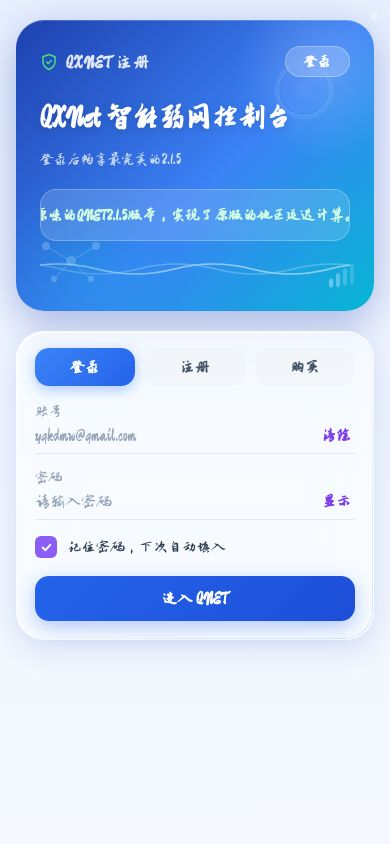
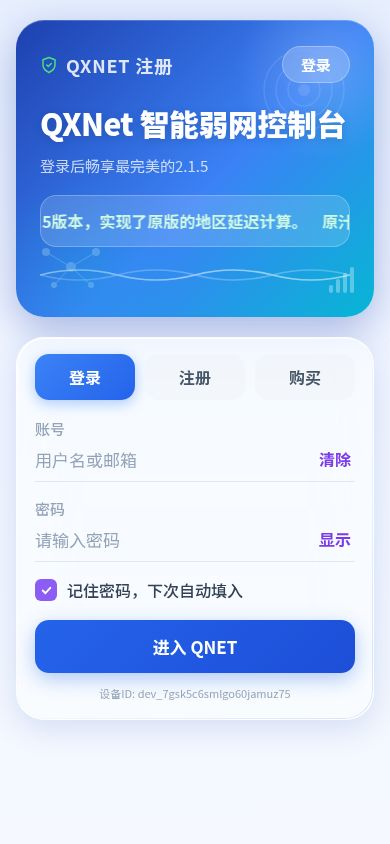
加上周卡7天支持

diff --git a/index.html b/index.html
@@ -915,7 +915,8 @@
       }
       showLoading('注册中…');
       let days = 36500;
-      if (cardData.type === 'month') days = 30;
+      if (cardData.type === 'week') days = 7;
+      else if (cardData.type === 'month') days = 30;
       else if (cardData.type === 'quarter') days = 90;
       else if (cardData.type === 'lifetime') days = 36500;
       const expiresAt = new Date();

diff --git a/public/index.html b/public/index.html
@@ -912,7 +912,8 @@
       }
       showLoading('注册中…');
       let days = 36500;
-      if (cardData.type === 'month') days = 30;
+      if (cardData.type === 'week') days = 7;
+      else if (cardData.type === 'month') days = 30;
       else if (cardData.type === 'quarter') days = 90;
       else if (cardData.type === 'lifetime') days = 36500;
       const expiresAt = new Date();
